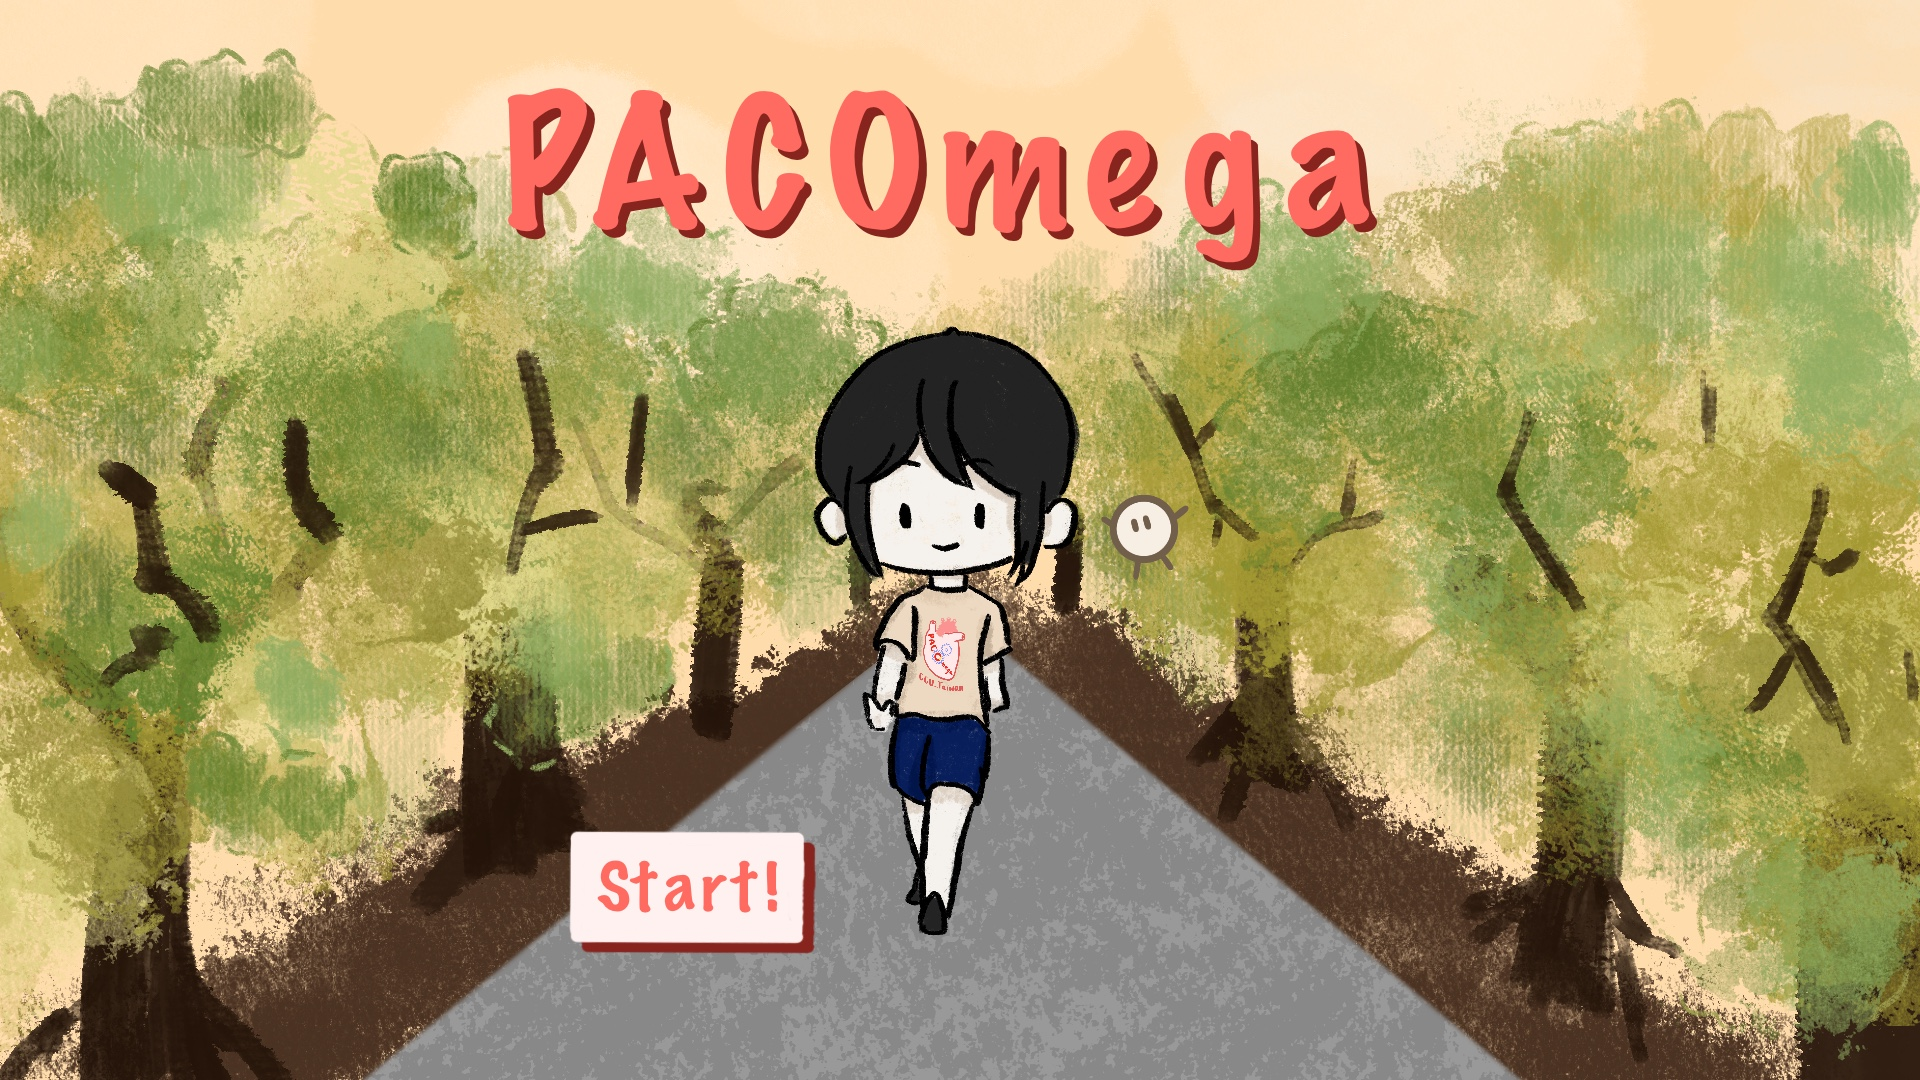
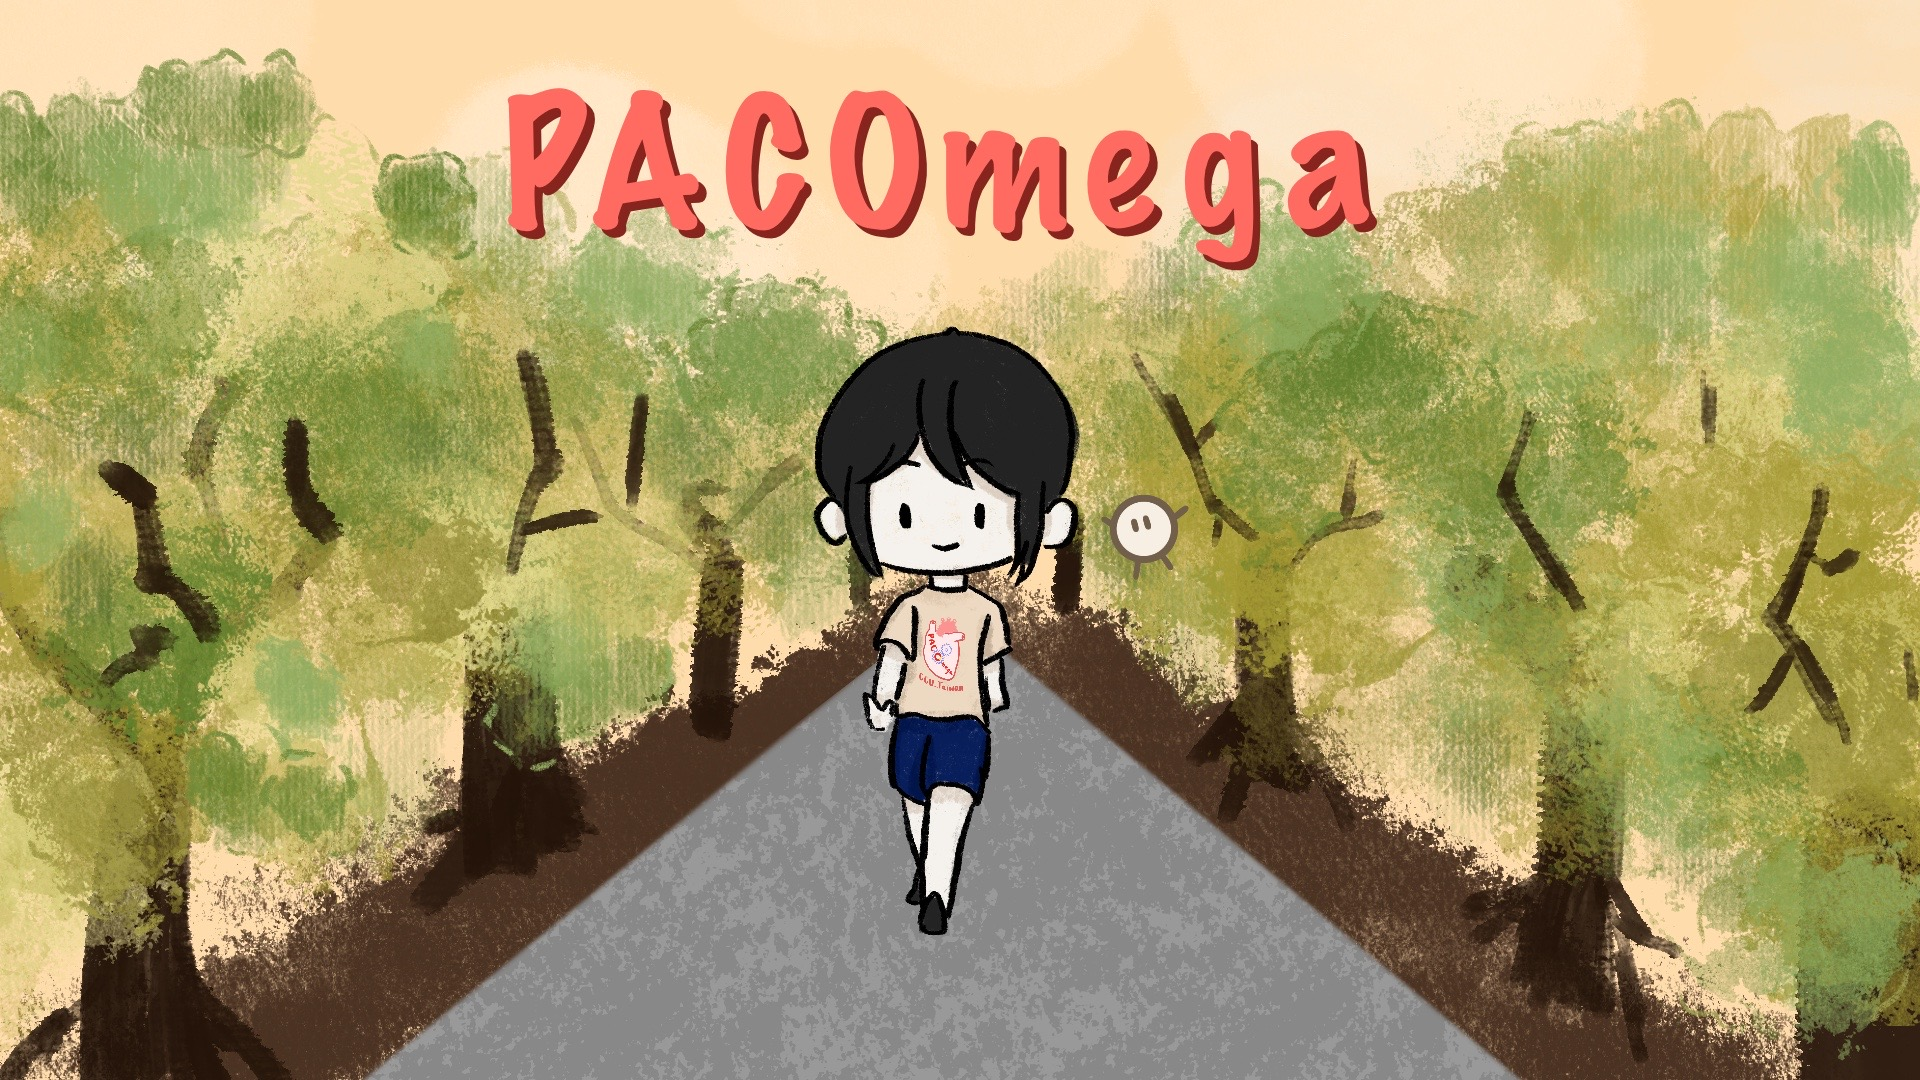
webgame adjust opening

Changed region(s): [[0.2812, 0.7639, 0.4375, 0.8861]]

diff --git a/webgamejs/map/opening.js b/webgamejs/map/opening.js
@@ -1,7 +1,8 @@
-debug=0;
 function preload_opening (){
+    debug=0;
     load_transition(this);
     this.load.image('webgame', 'img/map/webgame.jpg');
+    this.load.image('start', 'img/map/start.png');
     if(debug==1){
         this.load.image('D_center', 'img/main/debug_center.png');
         this.load.image('green', 'img/main/green.png');
@@ -14,7 +15,9 @@ function create_opening (){
     //--------------------場景設定--------------------
     var webgame;
     webgame=this.physics.add.sprite(width/2,height/2,'webgame').setDisplaySize(width,height);
-    this.input.on("pointerup",function(){
+    var start;
+    start=this.physics.add.sprite(width*0.35,height*0.8,"start").setDisplaySize(width*0.12,height*0.12).setInteractive();
+    start.on("pointerup",function(){
         stop=1;
         finish_transition(this,(0.8)*width,(0.0)*height);
         setTimeout(function(){

diff --git a/webgamejs/index.js b/webgamejs/index.js
@@ -165,10 +165,16 @@ const stage_5_take={
     create: create_stage5_take,
     update: update_stage5_take
 }
+const ending={
+    key: 'ending',
+    preload: preload_endingscene,
+    create: create_endingscene,
+    update: update_endingscene
+}
 
 function load(){
     if(page==null){
-        load_page(map_1);
+        load_page(opening);
     }else{
         switch(page){
             case "lobby":
@@ -195,6 +201,9 @@ function load(){
             case "stage5":
                 load_page(stage_5_take);
                 break;
+            case "ending":
+                load_page(ending);
+                break;
         }
     }
 }
@@ -209,7 +218,7 @@ function load_page(page){
             default: 'arcade',
             arcade: {
                 gravity: { y: 0 },
-                debug: true
+                debug: false
             }
         },
         scene: page

diff --git a/webgamejs/endingscene.js b/webgamejs/endingscene.js
@@ -1,0 +1,14 @@
+
+function preload_endingscene(){
+    this.load.image("black","img/map/blacksquare.png");
+}
+
+function create_endingscene(){
+    this.add.background(0,0,"black");
+    
+    
+}
+
+function update_endingscene(){
+
+}

diff --git a/sub/gamehead.php b/sub/gamehead.php
@@ -15,6 +15,7 @@
 <script src="<?php echo webgamejsfile;?>/play/billiard.js"></script>
 <script src="<?php echo webgamejsfile;?>/change.js"></script>
 <script src="<?php echo webgamejsfile;?>/congratulation.js"></script>
+<script src="<?php echo webgamejsfile;?>/endingscene.js"></script>
 <script src="<?php echo webgamejsfile;?>/index.js"></script>
 <script src="<?php echo webgamejsfile;?>/talk_box.js"></script>
 <script src="<?php echo webgamejsfile;?>/slide.js"></script>
